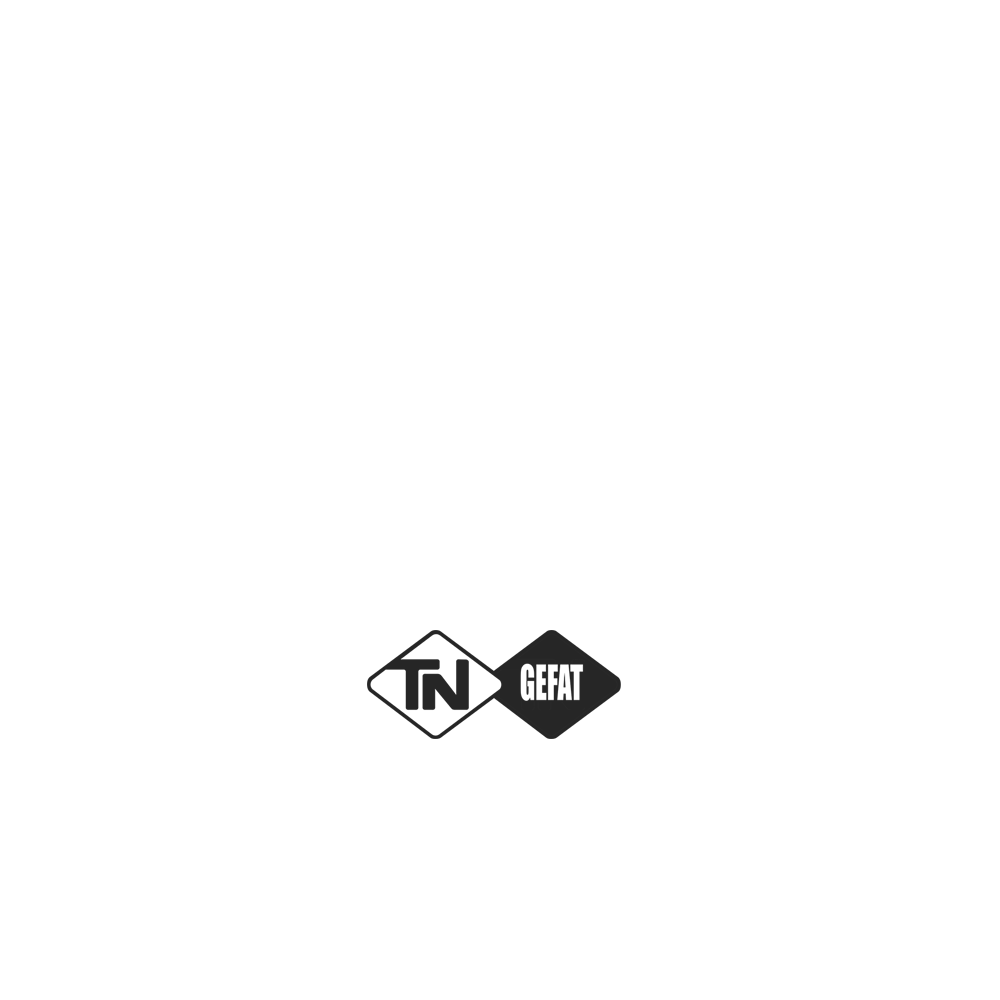
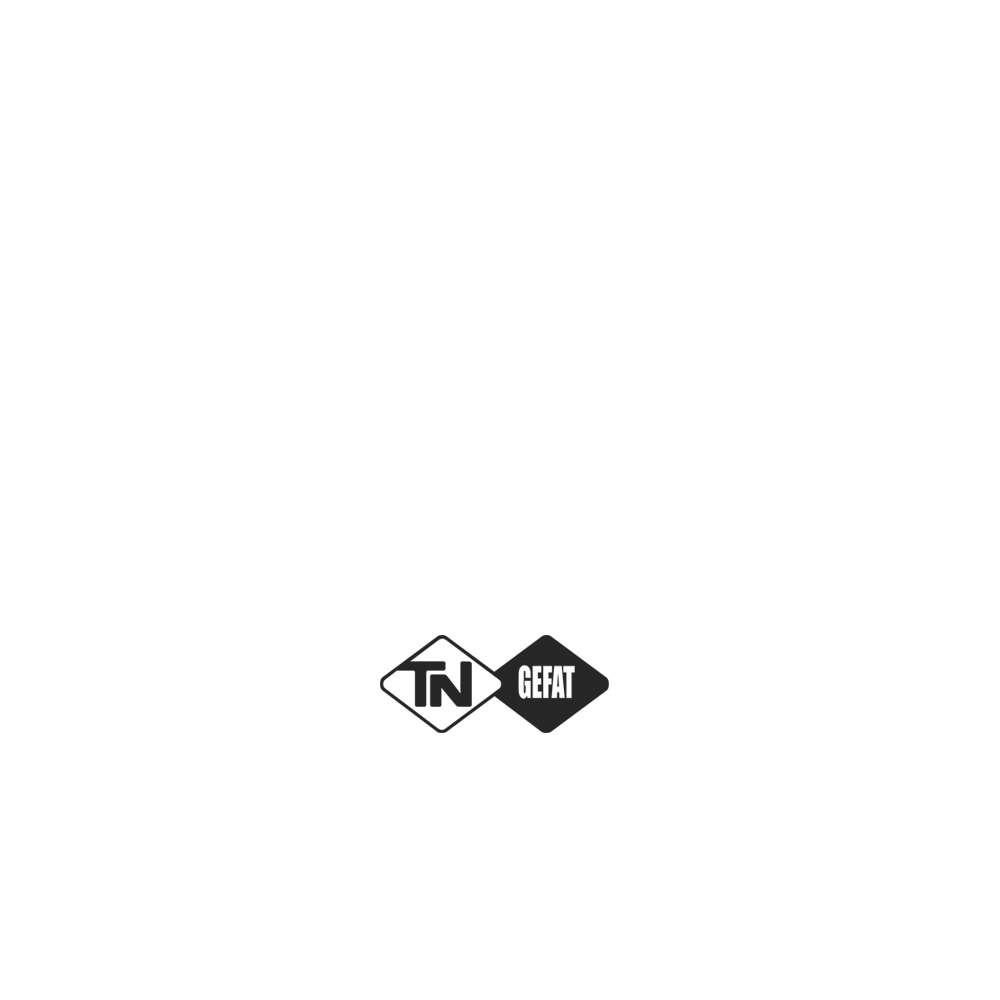
Clock face slightly smaller to allow for errors in cutting

Changed region(s): [[0.372, 0.62, 0.62, 0.744]]

diff --git a/clock/station-clock.js b/clock/station-clock.js
@@ -137,7 +137,7 @@ StationClock.prototype.draw = function() {
   if (clock) {
     var context = clock.getContext('2d');
     if (context) {
-      this.radius = 0.9 * (Math.min(clock.width, clock.height) / 2);
+      this.radius = 0.8 * (Math.min(clock.width, clock.height) / 2);
 
       // clear canvas and set new origin
       context.clearRect(0, 0, clock.width, clock.height);
